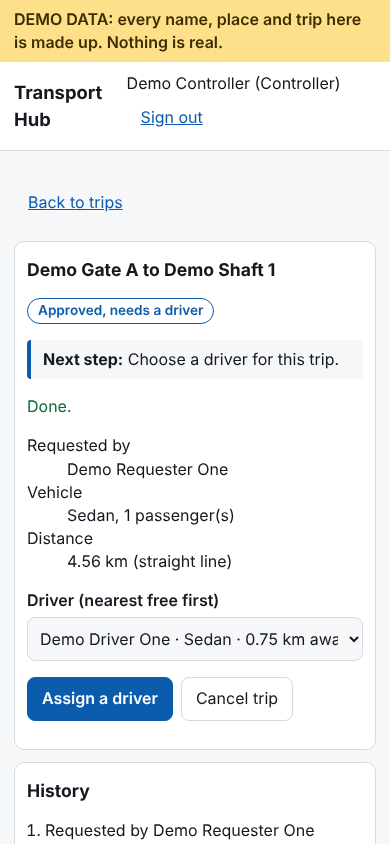
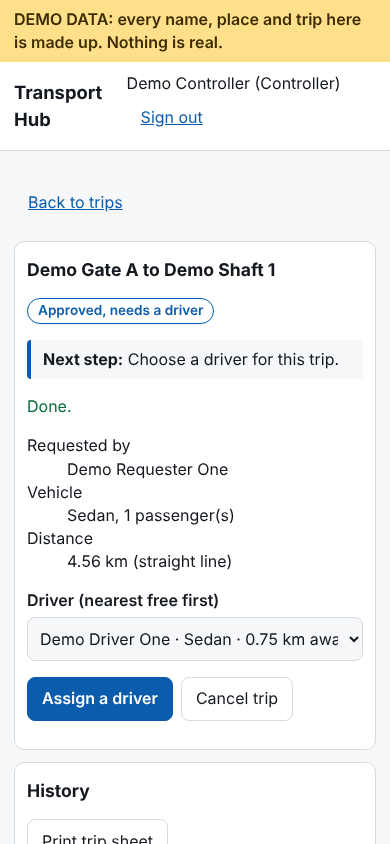
in-app User guide page, guide scenario S-05 (trip sheet, user guide), pack v0.3, walk 0 failures
Claude-Session: https://claude.ai/code/session_01XmDoPDHA6Qbcbk6HxLfRev

Changed region(s): [[0.0615, 0.955, 0.7077, 1.0], [0.7385, 0.955, 0.8, 1.0]]

diff --git a/public/app.js b/public/app.js
@@ -26,10 +26,10 @@ function signIn(m, error = '') {
   document.querySelectorAll('[data-e]').forEach((b) => b.onclick = () => { $('#e').value = b.dataset.e; $('#p').value = m.demoPassword; $('#f').requestSubmit(); });
   $('#f').onsubmit = async (ev) => { ev.preventDefault(); const r = await api('/api/login', 'POST', { email: $('#e').value, password: $('#p').value }); if (!r.ok) return signIn(m, r.error); me = r.user; draw(...parseHash()); };
 }
-function parseHash() { const m = location.hash.match(/^#\/(new|trip|reports|places)(?:\/([\w-]+))?$/); return m ? [m[1], m[2]] : ['list']; }
+function parseHash() { const m = location.hash.match(/^#\/(new|trip|reports|places|guide)(?:\/([\w-]+))?$/); return m ? [m[1], m[2]] : ['list']; }
 window.addEventListener('hashchange', () => { if (me) draw(...parseHash()); });
 function render(view = 'list', id) {
-  const h = ['new', 'reports', 'places'].includes(view) ? '#/' + view : view === 'trip' ? '#/trip/' + id : '#/';
+  const h = ['new', 'reports', 'places', 'guide'].includes(view) ? '#/' + view : view === 'trip' ? '#/trip/' + id : '#/';
   if (location.hash === h || (h === '#/' && location.hash === '')) draw(view, id); else location.hash = h;
 }
 function draw(view = 'list', id) {
@@ -37,14 +37,14 @@ function draw(view = 'list', id) {
   const role = { user: 'Requester', admin: 'Controller', driver: 'Driver', supervisor: 'Supervisor' }[me.user_type];
   $('#who').innerHTML = `${esc(me.name)} (${role}) <button class="link" id="out">Sign out</button>`;
   $('#out').onclick = async () => { await api('/api/logout', 'POST'); boot(); };
-  if (view === 'reports' && me.user_type === 'admin') return reportsPage(); if (view === 'places' && me.user_type === 'admin') return placesPage(); if (view === 'new') return newTrip(); if (view === 'trip') return tripPage(id); return list();
+  if (view === 'reports' && me.user_type === 'admin') return reportsPage(); if (view === 'places' && me.user_type === 'admin') return placesPage(); if (view === 'guide') return guidePage(); if (view === 'new') return newTrip(); if (view === 'trip') return tripPage(id); return list();
 }
 async function list() {
   const r = await api('/api/rides'); const rides = r.rides ?? [];
   const title = { user: 'My trips', admin: 'All trips', supervisor: 'All trips', driver: 'My assigned trips' }[me.user_type];
   const nt = (await api('/api/notices')).notices ?? [];
   $('#app').innerHTML = `<h2>${title}</h2>${me.user_type === 'user' ? '<p><button class="primary" id="new">Request a trip</button></p>' : ''}
-  ${me.user_type === 'admin' ? '<p class="row"><button id="rep">Reports</button><button id="plc">Places</button></p>' : ''}
+  <p class="row">${me.user_type === 'admin' ? '<button id="rep">Reports</button><button id="plc">Places</button>' : ''}<button id="gd">User guide</button></p>
   ${me.user_type === 'driver' ? driverPanel() : ''}
   ${nt.length ? `<div class="card"><h2>Messages</h2><ul class="plain">${nt.slice(0, 5).map((n) => `<li>${n.read_at ? '' : '<strong>New: </strong>'}${esc(n.text)}</li>`).join('')}</ul>${nt.some((n) => !n.read_at) ? '<p><button id="nr">Mark messages as read</button></p>' : ''}</div>` : ''}
   ${rides.length ? rides.map((x) => `<div class="card"><div class="row" style="justify-content:space-between"><strong>${esc(x.pickup_address)} to ${esc(x.destination_address)}</strong>${chip(x)}</div>
@@ -52,6 +52,7 @@ async function list() {
     <p><button data-id="${esc(x.id)}">Open trip</button></p></div>`).join('') : `<div class="card"><p>No trips yet.</p><p class="mut">${me.user_type === 'user' ? 'Choose "Request a trip" to ask for one.' : me.user_type === 'admin' ? 'New requests will appear here.' : 'Trips assigned to you will appear here.'}</p></div>`}`;
   $('#nr')?.addEventListener('click', async () => { await api('/api/notices/read', 'POST'); list(); });
   $('#new')?.addEventListener('click', () => render('new'));
+  $('#gd')?.addEventListener('click', () => render('guide'));
   $('#rep')?.addEventListener('click', () => render('reports')); $('#plc')?.addEventListener('click', () => render('places'));
   document.querySelectorAll('[data-id]').forEach((b) => b.onclick = () => render('trip', b.dataset.id));
   bindDriver(); if (me.user_type !== 'user' || rides.length) timer = setInterval(() => document.hidden || list(), 15000);
@@ -118,6 +119,12 @@ async function tripPage(id, msg = '', errors = {}) {
     tripPage(id, res.ok ? 'Done.' : '', res.ok ? {} : { ...(res.errors ?? {}), error: res.error });
   });
   if (['assigned', 'in_progress'].includes(x.status)) timer = setInterval(() => document.hidden || tripPage(id, msg), 10000);
+}
+async function guidePage() {
+  const r = await api('/api/guide'); const files = r.files ?? [];
+  $('#app').innerHTML = `<p><button id="b">Back to trips</button></p><h2>User guide</h2><p class="mut">Step-by-step guides for every role, with pictures. Made-up demo people and data only.</p>
+  <div class="card">${files.length ? `<ul class="plain">${files.map((f) => `<li><a href="/api/guide/${esc(f.name)}" download>${esc(f.name.replace(/\.[a-z]+$/i, '').replace(/[_-]+/g, ' '))}</a> <span class="mut">(${esc(f.kind)}, ${f.kb} KB)</span></li>`).join('')}</ul>` : '<p>The guide has not been published with this copy of the app yet. Ask the controller.</p>'}</div>`;
+  $('#b').onclick = () => render();
 }
 async function reportsPage(from = '', to = '') {
   const qs = new URLSearchParams(); if (from) qs.set('from', from); if (to) qs.set('to', to);

diff --git a/public/sw.js b/public/sw.js
@@ -4,7 +4,7 @@
    always one consistent version. Other websites, non-GET requests and the worker itself are never touched. */
 'use strict';
 const PREFIX = "transport-hub";
-const CACHE = "transport-hub-58631ab3c8";
+const CACHE = "transport-hub-debaea69a6";
 const PRECACHE = ["app.css","app.js","icon-180.png","icon-192.png","icon-512.png","icon-maskable-512.png","index.html","manifest.webmanifest","pwa-config.js","pwa.js"];
 const SHELL = "index.html";
 const NAV_TIMEOUT = 4000;

diff --git a/tests/e2e/guide-walk.py b/tests/e2e/guide-walk.py
@@ -38,6 +38,10 @@ try:
                     elif lab == 'Places': pg.goto(base + '#/places'); pg.reload(); pg.wait_for_selector('#pf')
                     elif lab == 'Reports': pg.click('#rep'); pg.wait_for_selector('text=By status')
                     elif lab == 'Add place': pg.fill('#pn', 'Demo Gate Z'); pg.fill('#pla', '-26.5'); pg.fill('#plo', '27.5'); pg.click('#pf button'); pg.wait_for_selector('text=Place added.')
+                    elif lab == 'Print trip sheet':
+                        assert pg.query_selector(f'a[href^="/api/rides/{tid}/sheet"]'), 'no print link'
+                        r = pg.request.get(base + f'api/rides/{tid}/sheet'); assert r.ok and 'Trip sheet' in r.text(), 'sheet not served'
+                    elif lab == 'User guide': pg.goto(base); pg.reload(); pg.wait_for_selector('#gd'); pg.click('#gd'); pg.wait_for_selector('text=Made-up demo people')
                     elif lab is None: pg.goto(base + '#/trip/' + tid); pg.reload(); pg.wait_for_selector('.card')
                     else: pg.click(f'button:has-text("{lab}")'); pg.wait_for_timeout(400)
                     text = re.sub(r'\s+', ' ', pg.inner_text('body')).lower()
